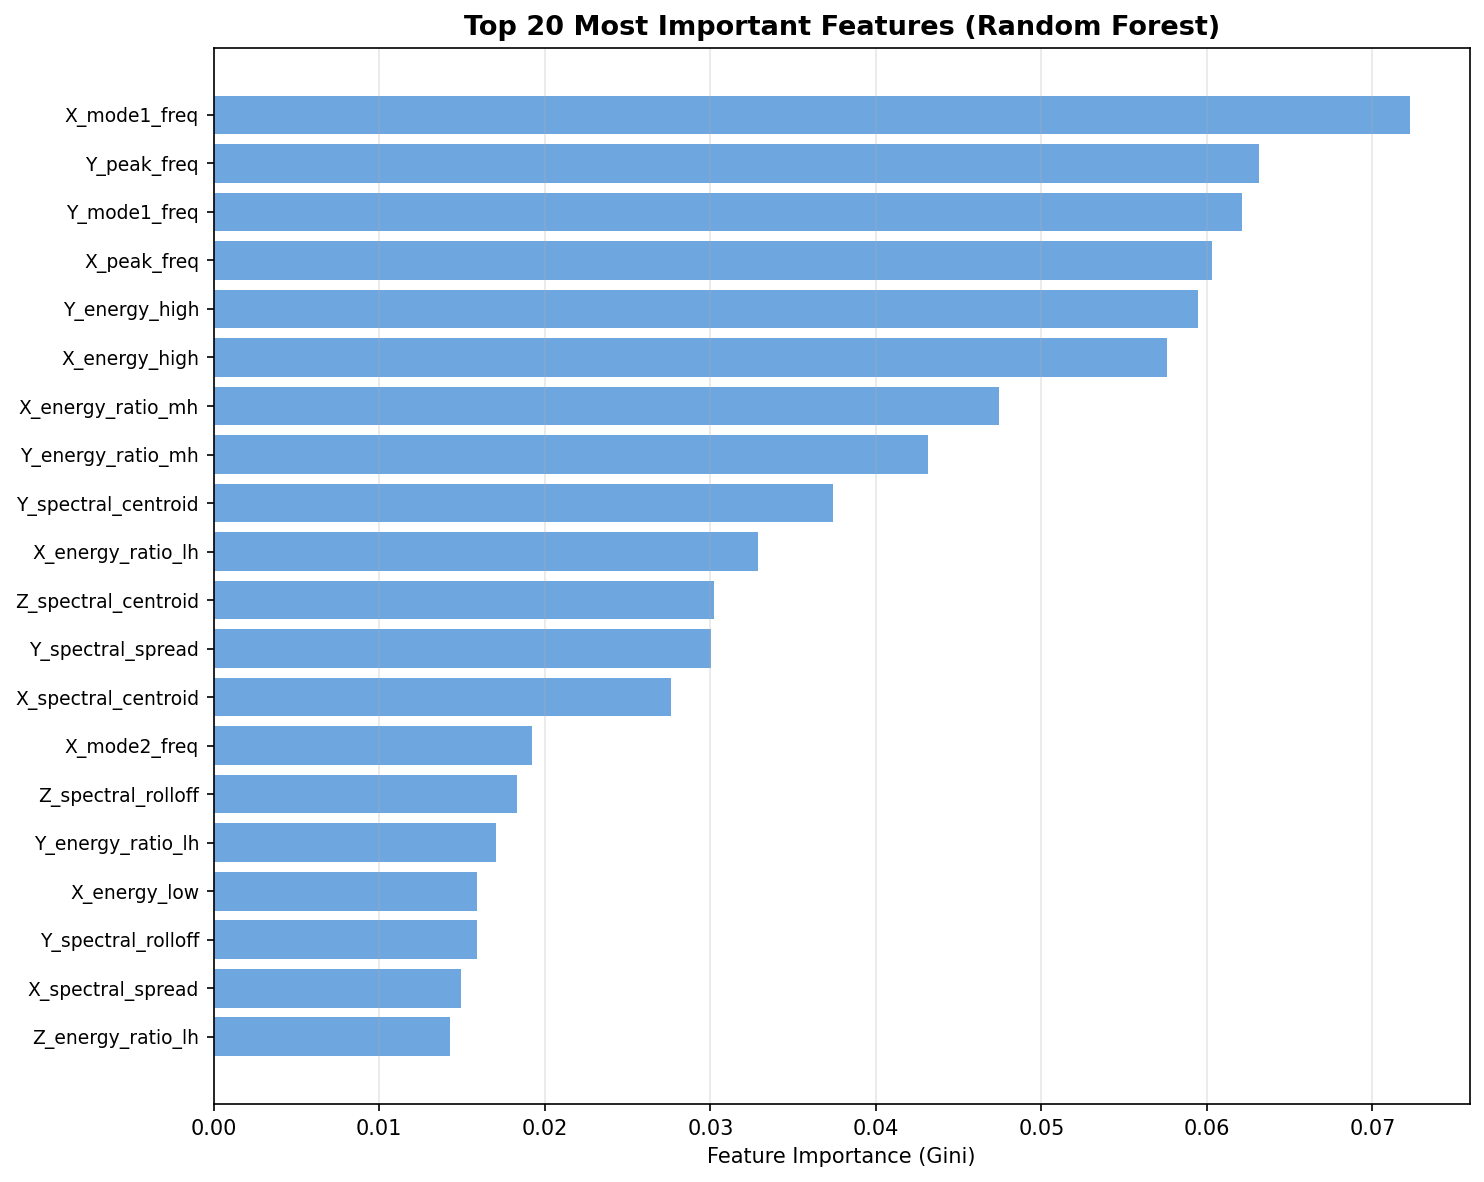
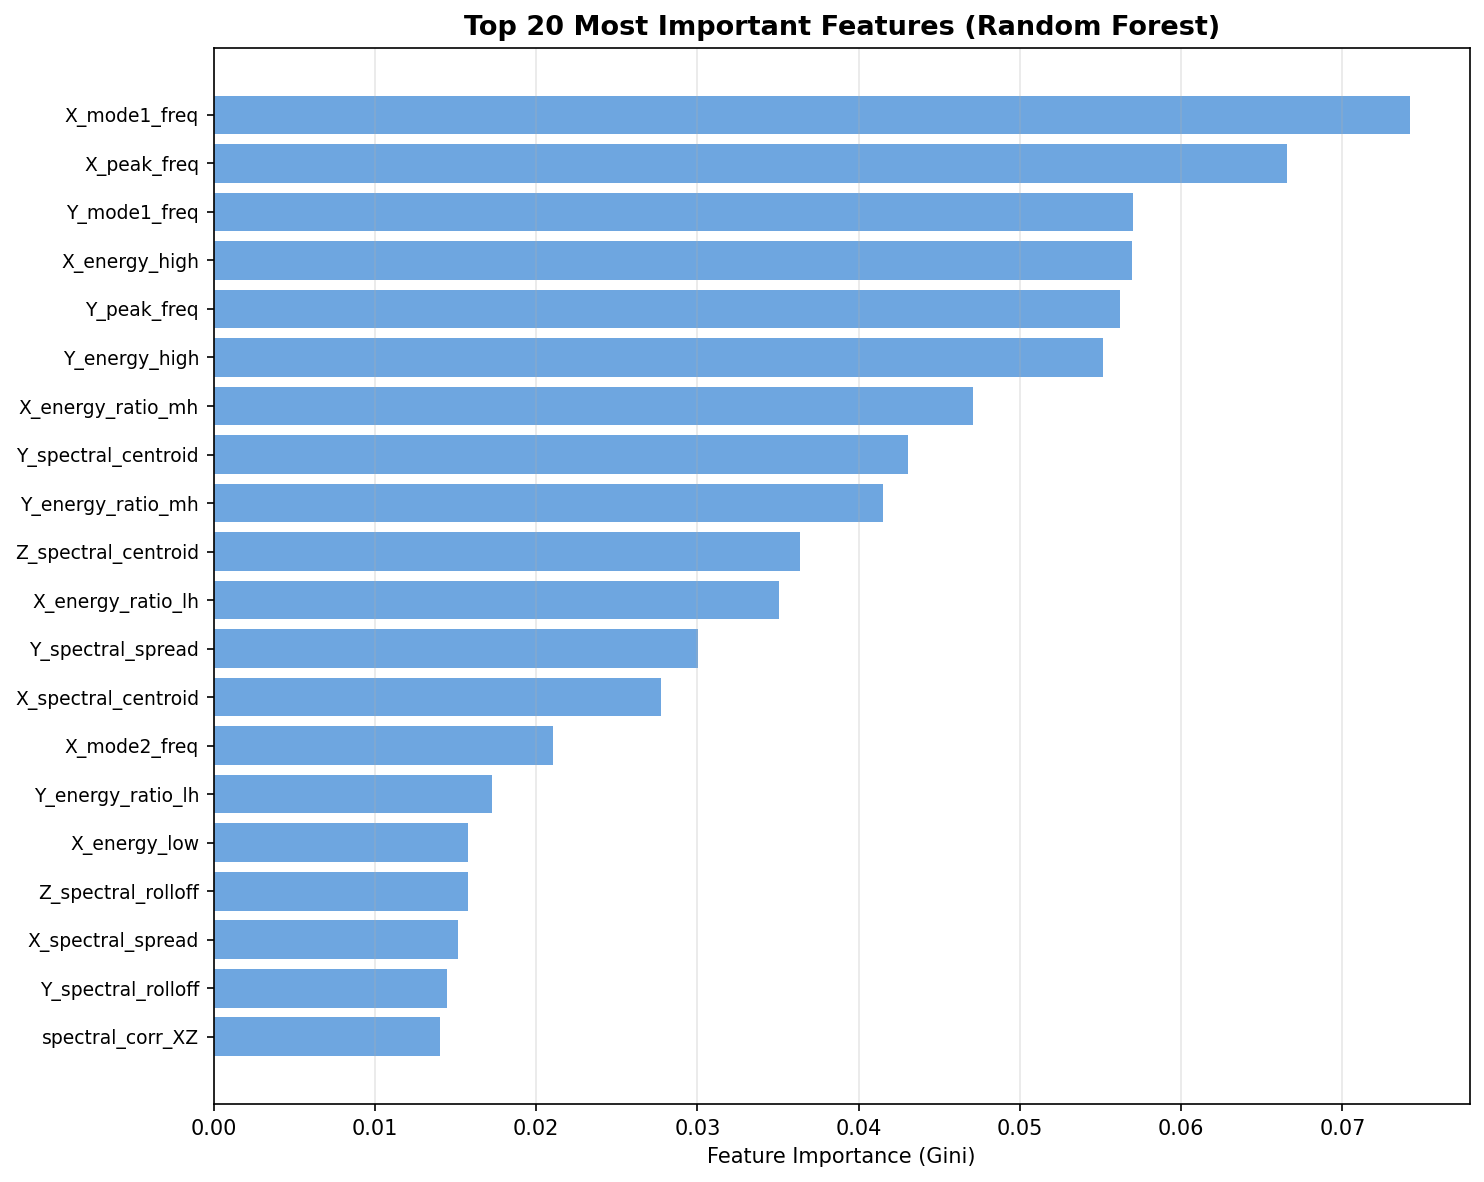
last version

diff --git a/classifier_pipeline.py b/classifier_pipeline.py
@@ -71,7 +71,7 @@ def load_signal(run, test_id, board):
     path = f"{BASE}/{run}/{test_id}/{board}"
     if not os.path.isdir(path):
         return None
-    files = [f for f in os.listdir(path) if f.endswith(".csv") and not f.endswith("_i.csv")]
+    files = [f for f in os.listdir(path) if f.endswith(".csv") ]
     if not files:
         return None
     fpath = os.path.join(path, sorted(files)[0])